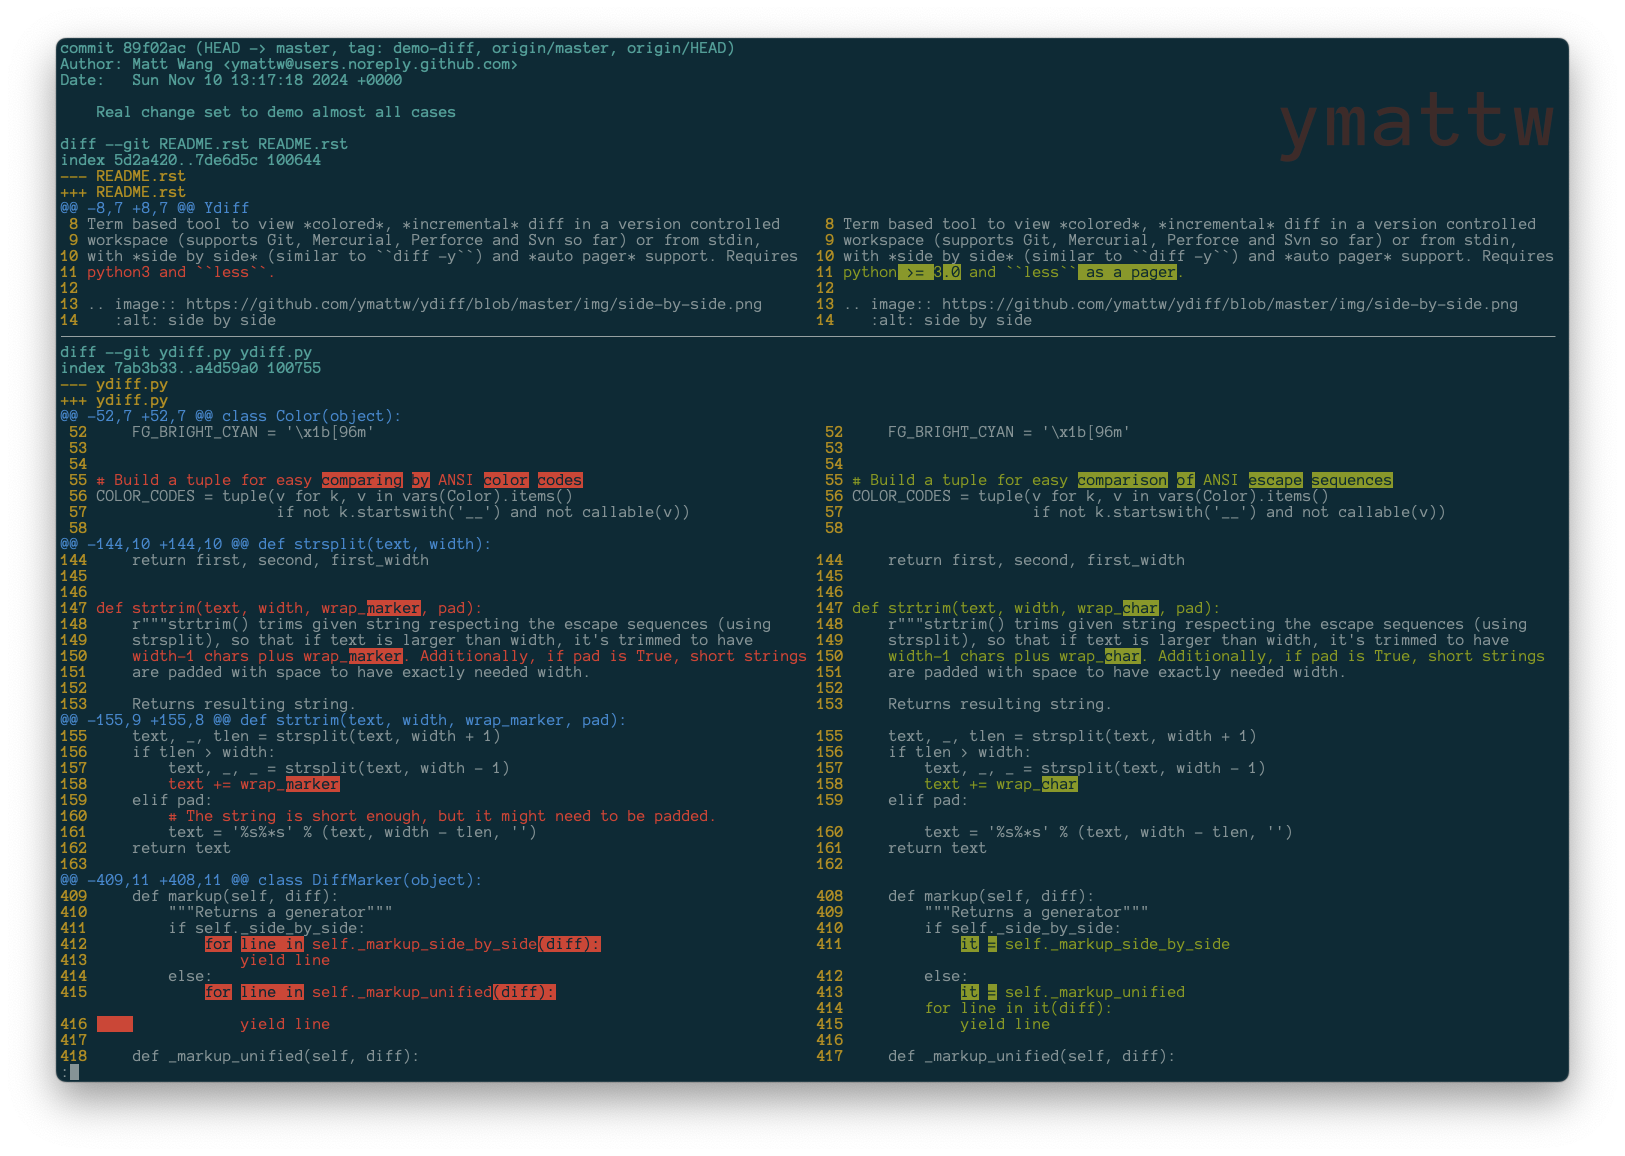
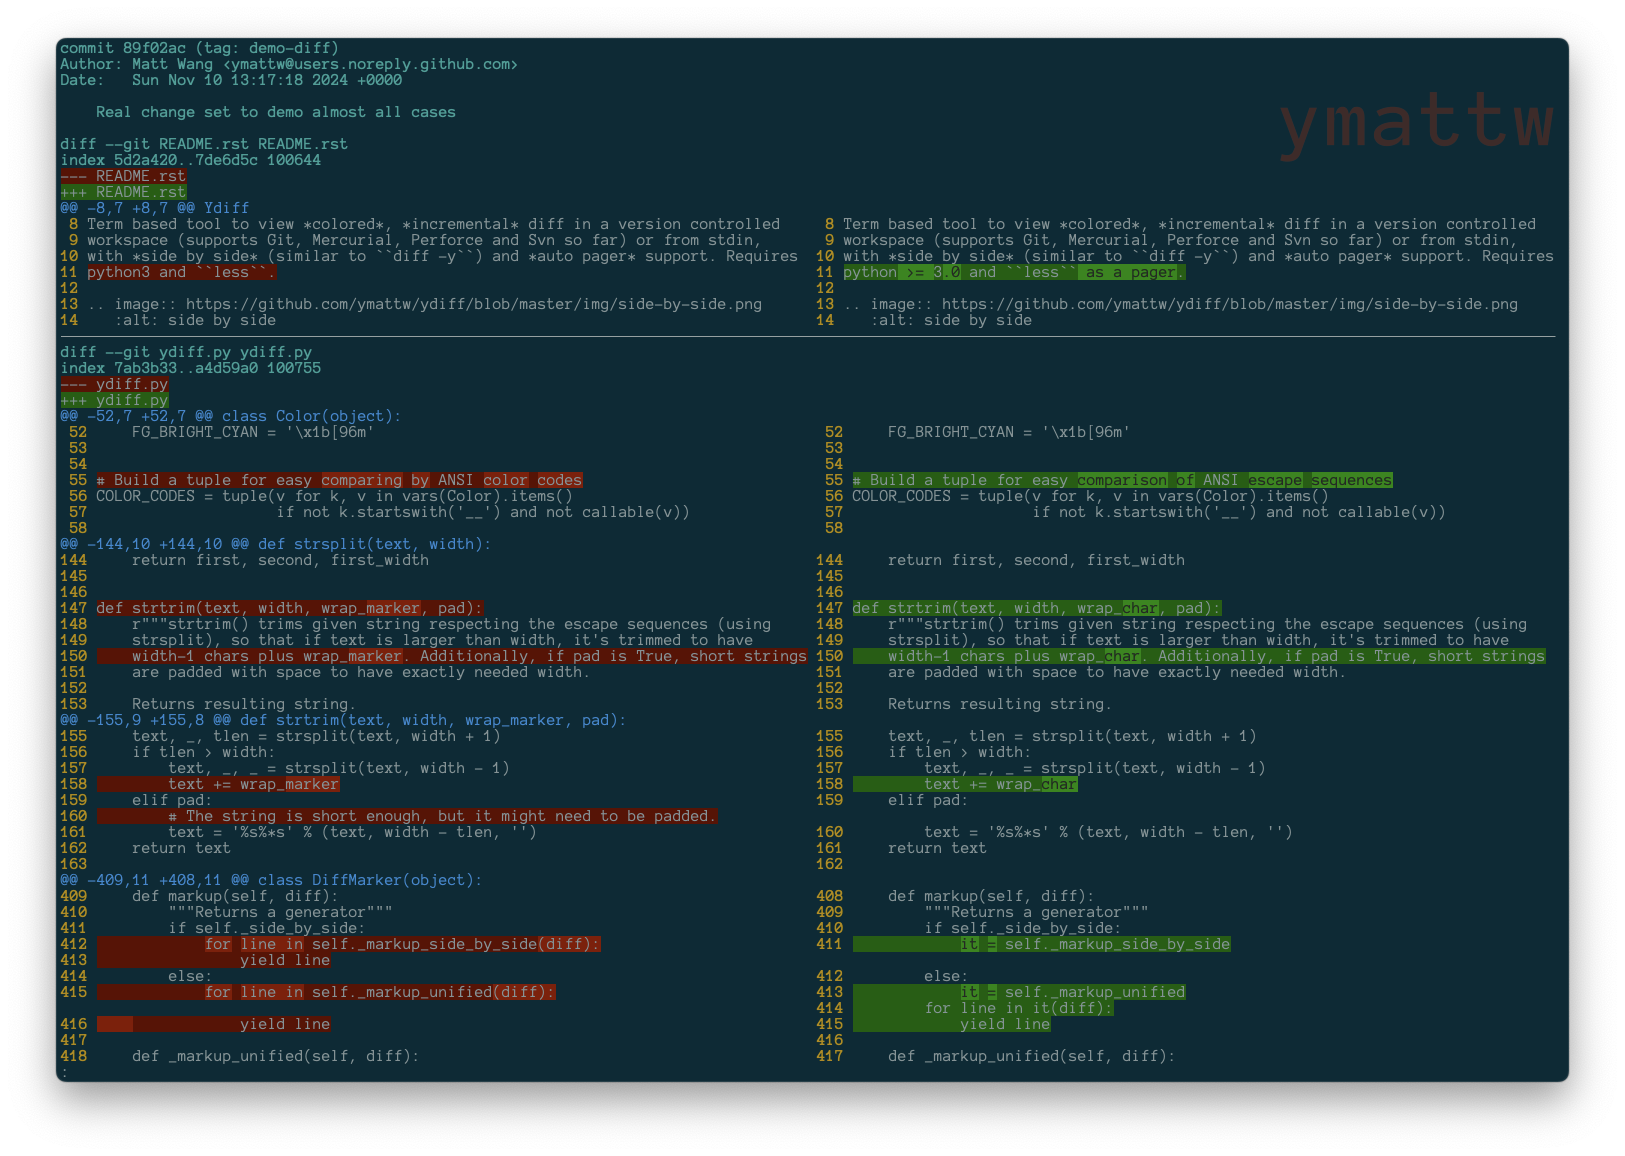
Swap highlight theme to default and default to legacy

diff --git a/tests/test_ydiff.py b/tests/test_ydiff.py
@@ -102,7 +102,7 @@ class DiffMarkupTest(unittest.TestCase):
     def test_markup_traditional_hunk_header(self):
         hunk = ydiff.Hunk(['hunk header\n'], '@@ -0 +0 @@\n', (0, 0), (0, 0))
         diff = ydiff.UnifiedDiff([], '--- old\n', '+++ new\n', [hunk])
-        marker = ydiff.DiffMarker()
+        marker = ydiff.DiffMarker(theme='legacy')
 
         out = list(marker.markup(diff))
         self.assertEqual(len(out), 4)
@@ -116,7 +116,7 @@ class DiffMarkupTest(unittest.TestCase):
         hunk = ydiff.Hunk([], '@@ -1 +0,0 @@\n', (1, 0), (0, 0))
         hunk.append(('-', 'spam\n'))
         diff = ydiff.UnifiedDiff([], '--- old\n', '+++ new\n', [hunk])
-        marker = ydiff.DiffMarker()
+        marker = ydiff.DiffMarker(theme='legacy')
 
         out = list(marker.markup(diff))
         self.assertEqual(len(out), 4)
@@ -130,7 +130,7 @@ class DiffMarkupTest(unittest.TestCase):
         hunk = ydiff.Hunk([], '@@ -0,0 +1 @@\n', (0, 0), (1, 0))
         hunk.append(('+', 'spam\n'))
         diff = ydiff.UnifiedDiff([], '--- old\n', '+++ new\n', [hunk])
-        marker = ydiff.DiffMarker()
+        marker = ydiff.DiffMarker(theme='legacy')
 
         out = list(marker.markup(diff))
         self.assertEqual(len(out), 4)
@@ -146,7 +146,7 @@ class DiffMarkupTest(unittest.TestCase):
         hunk.append(('+', 'hell+\n'))
         hunk.append((' ', 'common\n'))
         diff = ydiff.UnifiedDiff([], '--- old\n', '+++ new\n', [hunk])
-        marker = ydiff.DiffMarker()
+        marker = ydiff.DiffMarker(theme='legacy')
 
         out = list(marker.markup(diff))
         self.assertEqual(len(out), 6)
@@ -166,7 +166,7 @@ class DiffMarkupTest(unittest.TestCase):
 
     def test_markup_side_by_side_padded(self):
         diff = self._init_diff()
-        marker = ydiff.DiffMarker(side_by_side=True, width=7)
+        marker = ydiff.DiffMarker(side_by_side=True, width=7, theme='legacy')
 
         out = list(marker.markup(diff))
         self.assertEqual(len(out), 11)
@@ -220,7 +220,7 @@ class DiffMarkupTest(unittest.TestCase):
     # This test is not valid anymore
     def __test_markup_side_by_side_neg_width(self):
         diff = self._init_diff()
-        marker = ydiff.DiffMarker(side_by_side=True, width=-1)
+        marker = ydiff.DiffMarker(side_by_side=True, width=-1, theme='legacy')
         out = list(marker.markup(diff))
         self.assertEqual(len(out), 11)
 
@@ -264,7 +264,7 @@ class DiffMarkupTest(unittest.TestCase):
 
     def test_markup_side_by_side_off_by_one(self):
         diff = self._init_diff()
-        marker = ydiff.DiffMarker(side_by_side=True, width=6)
+        marker = ydiff.DiffMarker(side_by_side=True, width=6, theme='legacy')
         out = list(marker.markup(diff))
         self.assertEqual(len(out), 11)
 
@@ -315,7 +315,7 @@ class DiffMarkupTest(unittest.TestCase):
 
     def test_markup_side_by_side_wrapped(self):
         diff = self._init_diff()
-        marker = ydiff.DiffMarker(side_by_side=True, width=5)
+        marker = ydiff.DiffMarker(side_by_side=True, width=5, theme='legacy')
         out = list(marker.markup(diff))
         self.assertEqual(len(out), 11)
 
@@ -367,7 +367,8 @@ class DiffMarkupTest(unittest.TestCase):
 
     def test_markup_side_by_side_tabbed(self):
         diff = self._init_diff()
-        marker = ydiff.DiffMarker(side_by_side=True, width=8, tab_width=2)
+        marker = ydiff.DiffMarker(side_by_side=True, width=8, tab_width=2,
+                                  theme='legacy')
         out = list(marker.markup(diff))
         self.assertEqual(len(out), 11)
 

diff --git a/ydiff.py b/ydiff.py
@@ -54,25 +54,6 @@ THEMES = {
     'default': {
         # kind: (effects,)
         'header': (Color.FG_CYAN,),
-        'old_path': (Color.FG_YELLOW,),
-        'new_path': (Color.FG_YELLOW,),
-        'hunk_header': (Color.FG_CYAN,),
-        'hunk_meta': (Color.FG_BLUE,),
-        'common_line': (Color.RESET,),
-        'old_line': (Color.FG_RED,),
-        'new_line': (Color.FG_GREEN,),
-        'deleted_text': (Color.REVERSE, Color.FG_RED,),
-        'inserted_text': (Color.REVERSE, Color.FG_GREEN,),
-        'replaced_old_text': (Color.REVERSE, Color.FG_RED,),
-        'replaced_new_text': (Color.REVERSE, Color.FG_GREEN,),
-        'old_line_number': (Color.FG_YELLOW,),
-        'new_line_number': (Color.FG_YELLOW,),
-        'file_separator': (Color.FG_BRIGHT_CYAN,),
-        'wrap_marker': (Color.FG_BRIGHT_MAGENTA,),
-    },
-    'highlight': {
-        # kind: (effects,)
-        'header': (Color.FG_CYAN,),
         'old_path': (Color.BG8_DARK_RED,),
         'new_path': (Color.BG8_DARK_GREEN,),
         'hunk_header': (Color.FG_CYAN,),
@@ -84,6 +65,25 @@ THEMES = {
         'inserted_text': (Color.FG8_GRAY, Color.BG8_GREEN,),
         'replaced_old_text': (Color.BG8_RED,),
         'replaced_new_text': (Color.FG8_GRAY, Color.BG8_GREEN,),
+        'old_line_number': (Color.FG_YELLOW,),
+        'new_line_number': (Color.FG_YELLOW,),
+        'file_separator': (Color.FG_BRIGHT_CYAN,),
+        'wrap_marker': (Color.FG_BRIGHT_MAGENTA,),
+    },
+    'legacy': {
+        # kind: (effects,)
+        'header': (Color.FG_CYAN,),
+        'old_path': (Color.FG_YELLOW,),
+        'new_path': (Color.FG_YELLOW,),
+        'hunk_header': (Color.FG_CYAN,),
+        'hunk_meta': (Color.FG_BLUE,),
+        'common_line': (Color.RESET,),
+        'old_line': (Color.FG_RED,),
+        'new_line': (Color.FG_GREEN,),
+        'deleted_text': (Color.REVERSE, Color.FG_RED,),
+        'inserted_text': (Color.REVERSE, Color.FG_GREEN,),
+        'replaced_old_text': (Color.REVERSE, Color.FG_RED,),
+        'replaced_new_text': (Color.REVERSE, Color.FG_GREEN,),
         'old_line_number': (Color.FG_YELLOW,),
         'new_line_number': (Color.FG_YELLOW,),
         'file_separator': (Color.FG_BRIGHT_CYAN,),

diff --git a/README.rst b/README.rst
@@ -24,15 +24,15 @@ Theme ``default``:
    :align: center
    :height: 300 px
 
-Theme ``highlight``:
+Theme ``legacy``:
 
-.. image:: https://github.com/ymattw/ydiff/blob/master/img/side-by-side-highlight.png
-   :alt: side by side, theme 'highlight'
+.. image:: https://github.com/ymattw/ydiff/blob/master/img/side-by-side-legacy.png
+   :alt: side by side, theme 'legacy'
    :align: center
    :height: 300 px
 
-.. image:: https://github.com/ymattw/ydiff/blob/master/img/unified-highlight.png
-   :alt: unified, theme 'highlight'
+.. image:: https://github.com/ymattw/ydiff/blob/master/img/unified-legacy.png
+   :alt: unified, theme 'legacy'
    :align: center
    :height: 300 px
 
@@ -157,8 +157,7 @@ Type ``ydiff -h`` to show usage::
                             pager application to feed output to, default is 'less'
       -o OPT, --pager-options=OPT
                             options to supply to pager application
-      --theme=THEME         option to pick a color theme (one of default,
-                            highlight)
+      --theme=THEME         option to pick a color theme (one of default, legacy)
 
       Note:
         Option parser will stop on first unknown option and pass them down to
